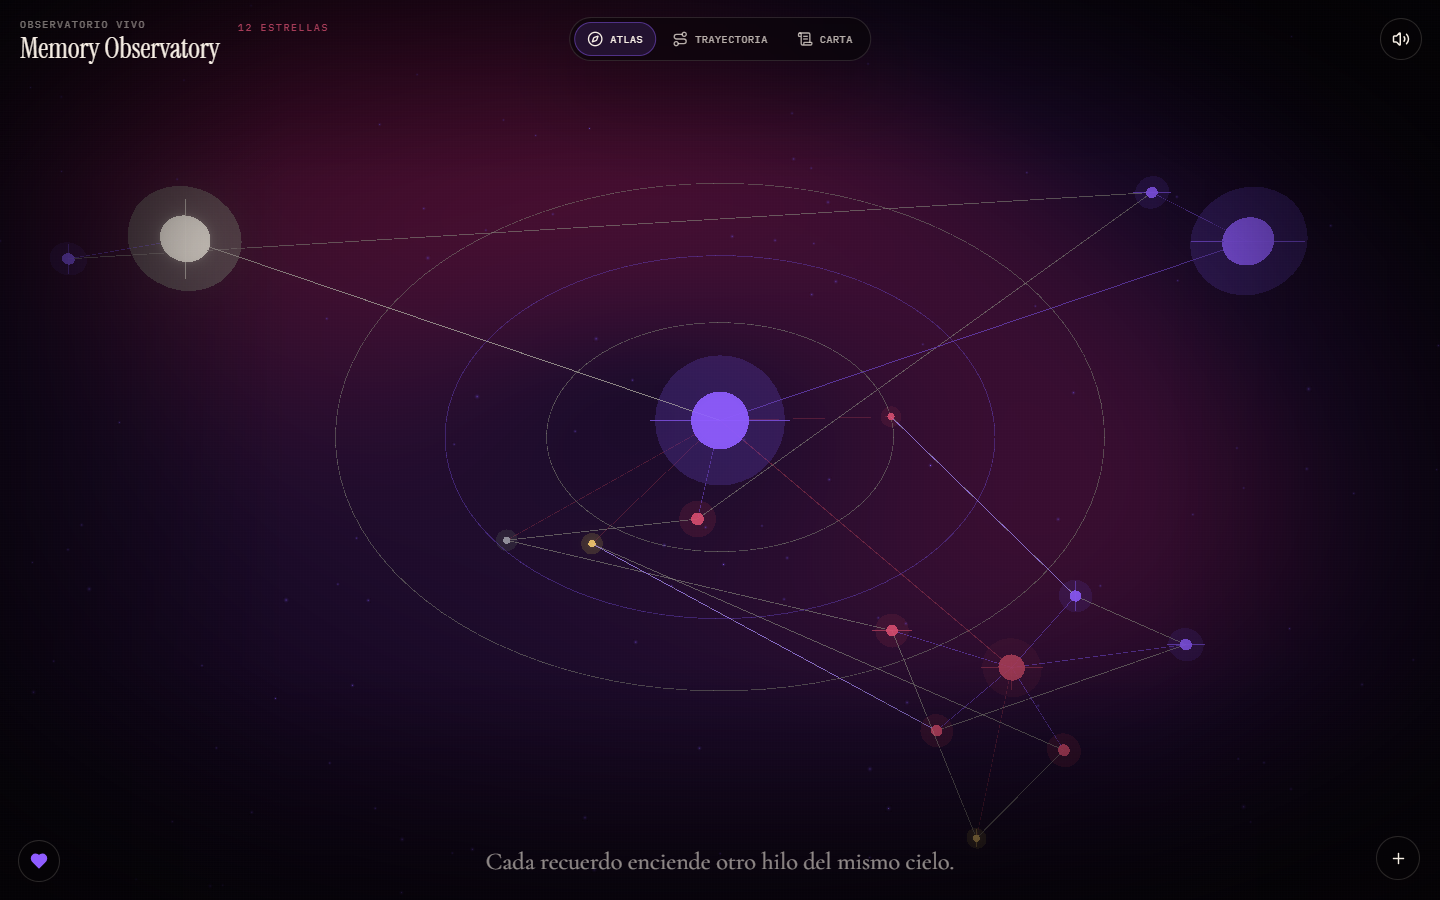
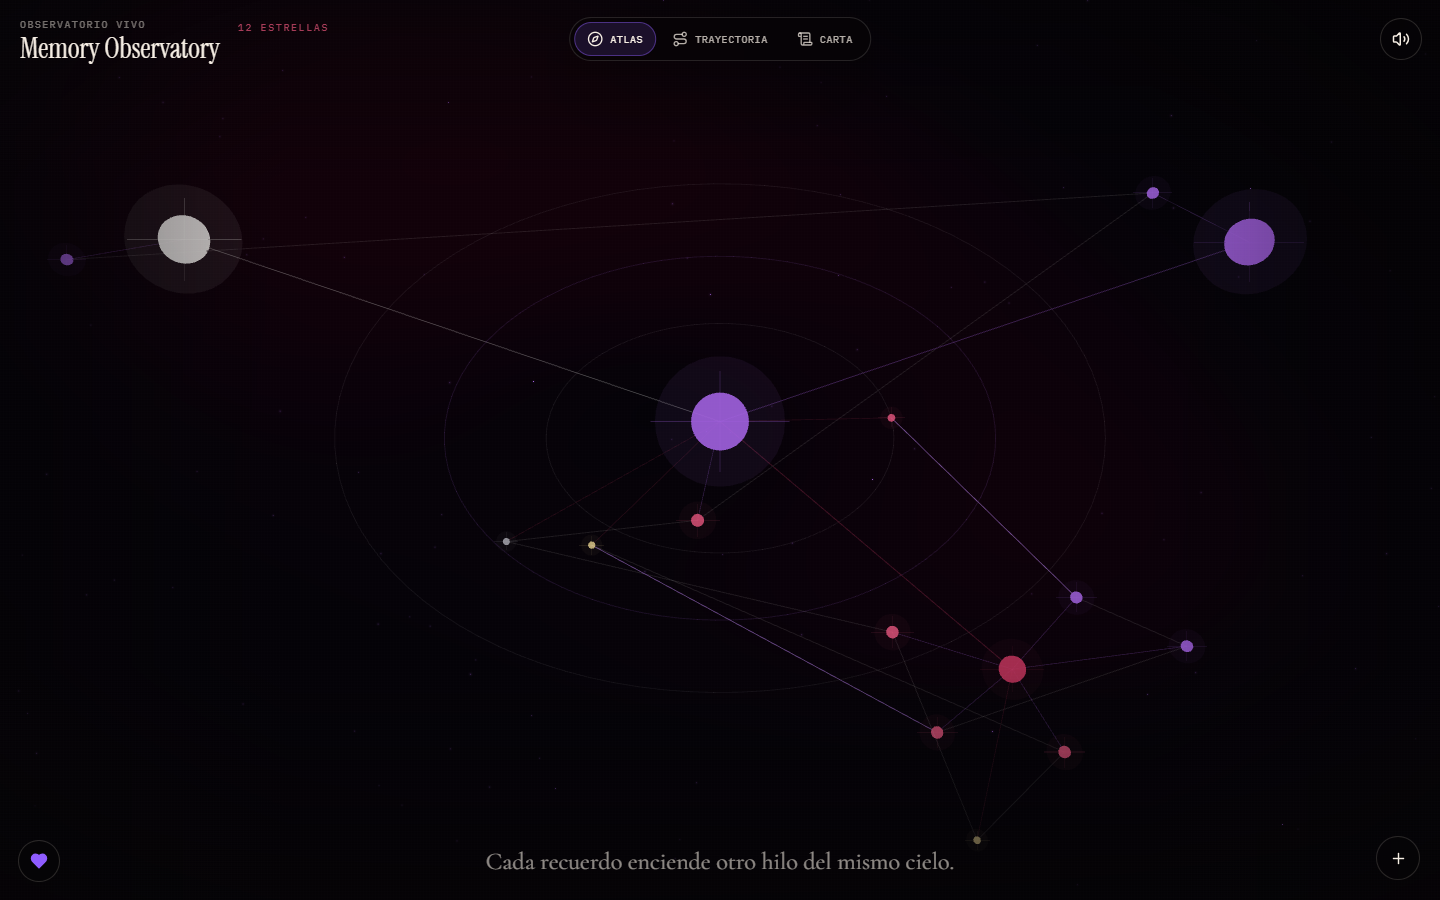
docs: refresh public demo presentation

diff --git a/README.md b/README.md
@@ -2,6 +2,8 @@
 
 A cinematic React memory archive that turns dated media entries into an interactive constellation.
 
+[Live demo](https://jupi33.github.io/memory-observatory/) · [Architecture](docs/frontend-architecture.md) · [Security](SECURITY.md)
+
 ![Demo preview](public/media/demo/observatory-preview.png)
 
 ![Demo walkthrough](public/media/demo/observatory-demo.gif)
@@ -10,9 +12,9 @@ A cinematic React memory archive that turns dated media entries into an interact
 
 Memory Observatory is an interactive, full-screen archive for personal media collections. Instead of showing a conventional grid of photos, it maps memories into a living constellation where dates, categories, emotional tone, and manual links determine the position and relationships between stars.
 
-The public repository ships with sanitized sample media and neutral demo records. Production deployments can connect to Supabase so uploaded memories, descriptions, responses, and media files persist across devices without storing private content in Git.
+The public repository ships with sanitized sample media and neutral demo records. A private deployment can connect to Supabase through the included Vercel API layer so uploaded memories, descriptions, responses, and media files persist across devices without storing private content in Git.
 
-This repository is a public demo snapshot prepared from a private/local project. It preserves the implementation and architecture while replacing private content with neutral sample assets.
+This repository is the sanitized public release of a project first developed privately. It keeps the implementation and architecture visible while replacing private content with neutral sample assets.
 
 The experience is designed for mobile-first sharing by QR or direct link, while still supporting desktop navigation, keyboard zoom, editor flows, and a richer cinematic presentation.
 
@@ -49,7 +51,7 @@ Designed as a frontend-intensive portfolio project focused on cinematic UI, dete
 - Public/private data split: the repository ships sanitized media and demo records; production data lives outside Git in Supabase or another configured backend.
 - Quality gates: formatting, linting, unit tests, desktop/mobile Playwright smoke tests, keyboard accessibility flows, Lighthouse budgets, bundle analysis, TypeScript build, and GitHub Pages deployment run in CI.
 
-## Project History
+## Project Notes
 
 - [Changelog](CHANGELOG.md)
 - [Roadmap](ROADMAP.md)
@@ -91,7 +93,7 @@ The layout engine is deterministic instead of physics-driven. That makes the pub
 
 Persistence is intentionally abstracted behind a media repository. The static GitHub Pages demo falls back to localStorage and sanitized sample media with no backend credentials. A production Vercel deployment uses `/api` routes, signed editor sessions, Supabase RLS, service-role writes on the server, and signed upload URLs for media.
 
-Private media and real project notes are excluded from the public repository. The live demo is documented as a sanitized snapshot, and production secrets are expected to live in environment variables rather than Git.
+Private media and real project notes are excluded from the public repository. Production secrets are expected to live in environment variables rather than Git.
 
 ## Getting Started
 
@@ -141,4 +143,4 @@ CRON_SECRET=
 
 [https://jupi33.github.io/memory-observatory/](https://jupi33.github.io/memory-observatory/)
 
-The public demo uses sample data and sanitized placeholder media. Production deployments should load private memories from Supabase or another backend configured outside the repo.
+The public demo uses sample data and sanitized placeholder media. Private deployments should load real memories from Supabase or another backend configured outside the repo.

diff --git a/ROADMAP.md b/ROADMAP.md
@@ -1,27 +1,27 @@
 # Roadmap
 
-This roadmap documents the intended technical evolution of Memory Observatory. The public repository starts at a sanitized demo snapshot, while private deployments can connect real data through Supabase.
+This roadmap documents the technical evolution of Memory Observatory. The public repository starts with sanitized demo data, while private deployments can connect real data through Supabase.
 
-## Phase 1: Cinematic Prototype
+## Milestone 1: Cinematic Prototype
 
 - Establish the ritual-style entrance and intro montage.
 - Define the visual language: editorial typography, dark cinematic canvas, soft violet lighting, and restrained audio.
 - Replace generic page sections with an immersive, full-screen experience.
 
-## Phase 2: Constellation Interaction Model
+## Milestone 2: Constellation Interaction Model
 
 - Map memories into deterministic star positions based on date, era, mood, and manual relationships.
 - Add atlas navigation, trajectory view, letter view, star selection, keyboard zoom, and touch-safe mobile behavior.
 - Improve visual density with anti-overlap layout and cleaner constellation links.
 
-## Phase 3: Persistence And Editor Workflows
+## Milestone 3: Persistence And Editor Workflows
 
 - Connect memories, responses, and media uploads to Supabase through Vercel API routes.
 - Keep localStorage fallback behavior for development and public static demos.
 - Protect create, edit, delete, link, upload, and response flows behind a signed editor session.
 - Keep the Supabase service role key server-side and record editor audit events.
 
-## Phase 4: Public Demo Hardening
+## Milestone 4: Public Demo Hardening
 
 - Sanitize private assets, copy, and local configuration before publishing.
 - Add linting, formatting, build checks, audit checks, and deployment automation.

diff --git a/CHANGELOG.md b/CHANGELOG.md
@@ -1,11 +1,12 @@
 # Changelog
 
-This public repository is a sanitized snapshot prepared from a private/local project. It keeps the technical structure, demo behavior, and deployment workflow public while excluding private media, secrets, and personal production data.
+This repository is a sanitized public release of a project first developed privately. It keeps the technical structure, demo behavior, and deployment workflow public while excluding private media, secrets, and personal production data.
 
 ## Unreleased
 
 ### Added
 
+- Refreshed the README preview image and walkthrough GIF from the current public demo.
 - Added Vercel API routes for public memory reads, protected editor writes, signed media upload URLs, responses, and editor sessions.
 - Added signed HttpOnly editor cookies backed by a server-only editor secret hash.
 - Added API validation tests for editor sessions, memory payloads, uploads, and unauthenticated write rejection.
@@ -17,7 +18,7 @@ This public repository is a sanitized snapshot prepared from a private/local pro
 - Updated the production Supabase schema template to enable RLS, remove public write policies, and record editor audit events.
 - Updated the keepalive route to use server-only Supabase credentials instead of public anon credentials.
 
-## v0.1.0 Public Demo Snapshot - 2026-05-23
+## v0.1.0 Public Demo Release - 2026-05-23
 
 ### Added
 

diff --git a/SECURITY.md b/SECURITY.md
@@ -20,7 +20,7 @@ Do not commit `.env.local`, Vercel production env files, service role keys, edit
 
 ## Demo Policies
 
-`supabase-schema.sql` documents the permissive demo schema used by the original gift-site workflow. It allows public reads and public writes because that workflow was designed around a private link.
+`supabase-schema.sql` documents the permissive demo schema used by the original private-link workflow. It allows public reads and public writes because that mode was designed for controlled demos.
 
 That tradeoff is useful only for local experimentation and private demos. It is not the production security model for sensitive data.
 
